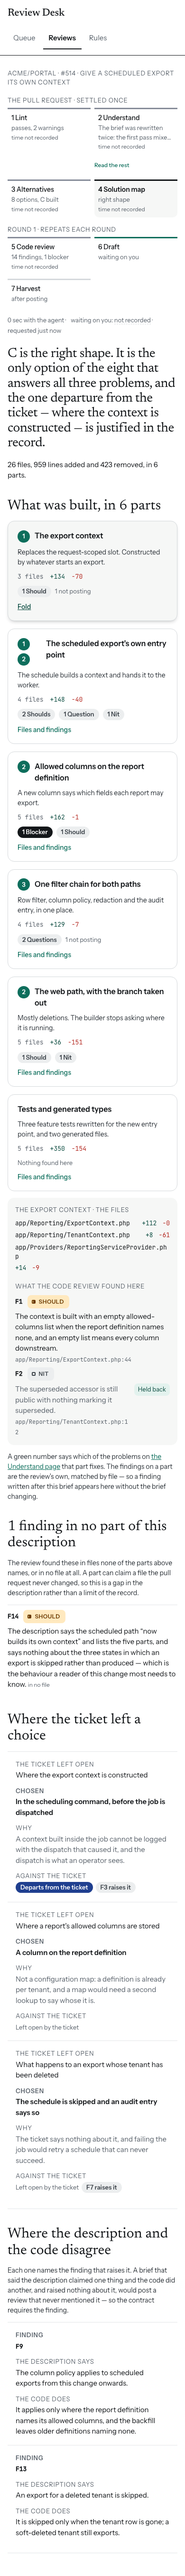
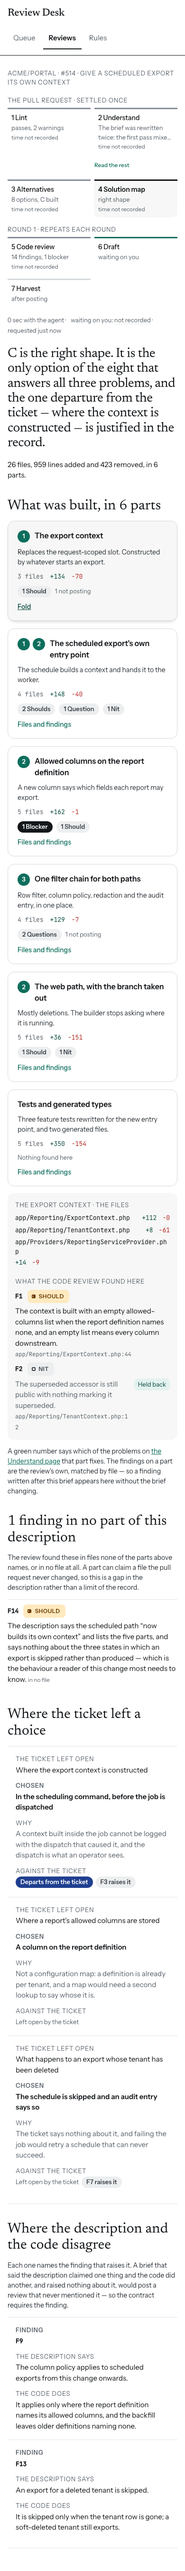
The marks lane is capped, not shrunk: two marks stacked for one commit [DEV-892]
`18be887` let `.part-marks` shrink to make its own `flex-wrap` reachable. It
made the pathological case right and the common one wrong: a shrinkable lane
gives up width to a title whose basis is far larger, collapses to min-content —
one circle — and stacks two marks vertically where they had been side by side.
The Solution picture in that commit shows it.

`flex: 0 0 auto` with the same `max-width: 50%`. Two marks are 58px and stay on
one line because nothing asks them to shrink; nine are clamped by the cap
before any shrinking would be needed and wrap into rows of their own. The
comment now says both halves, because each alone is wrong.

Caught by reading the picture the commit had just produced, which is what the
pictures are in the repository for.

diff --git a/web/app/pages/reviews/[id]/solution.vue b/web/app/pages/reviews/[id]/solution.vue
@@ -742,14 +742,24 @@ function severityWord(severity: string, n: number): string {
 /*
  * The marks keep their own lane and wrap as whole circles if a part fixes several.
  *
- * **`0 1 auto` and a half-width cap, not `flex: none`.** Fixed at max-content the lane could
- * not wrap at all, and nothing caps how many problems a part may fix: nine marks came to
- * 282px of a 340px card and left the title six pixels, which is defect 5 again wearing a
- * different hat. Capped, the lane wraps into rows of its own and the title always has half
- * the head.
+ * **It does not shrink, and it is capped at half the head.** The two have to be said
+ * separately, because each alone is wrong.
+ *
+ * `flex: none` alone fixes the lane at max-content, so its own `flex-wrap` can never fire
+ * and nothing caps how many problems a part may fix: nine marks measure 282px of a 340px
+ * card and leave the title six pixels, which is defect 5 again wearing a different hat.
+ *
+ * Letting it shrink instead is worse in the common case. A shrinkable lane gives up width
+ * to a title whose own basis is far larger, collapses to its min-content — one circle — and
+ * stacks two marks vertically where they had sat side by side. That was on the Solution
+ * picture for one commit.
+ *
+ * So: no shrink, and a `max-width` that clamps before any shrinking would be needed. Two
+ * marks are 58px and stay on one line; nine are capped at half the head and wrap into rows
+ * of their own, and the title always has the other half.
  */
 .part-marks {
-  flex: 0 1 auto;
+  flex: 0 0 auto;
   display: flex;
   flex-wrap: wrap;
   gap: 6px;
